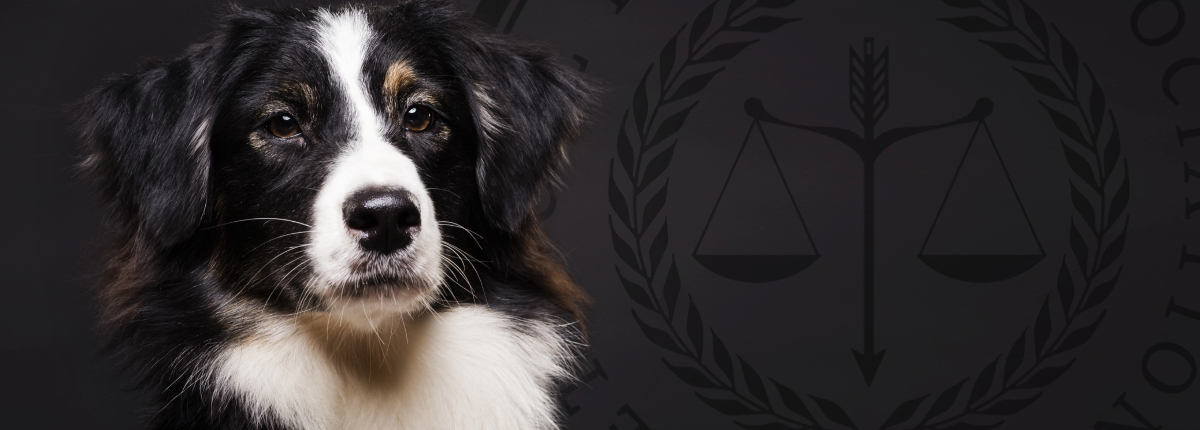
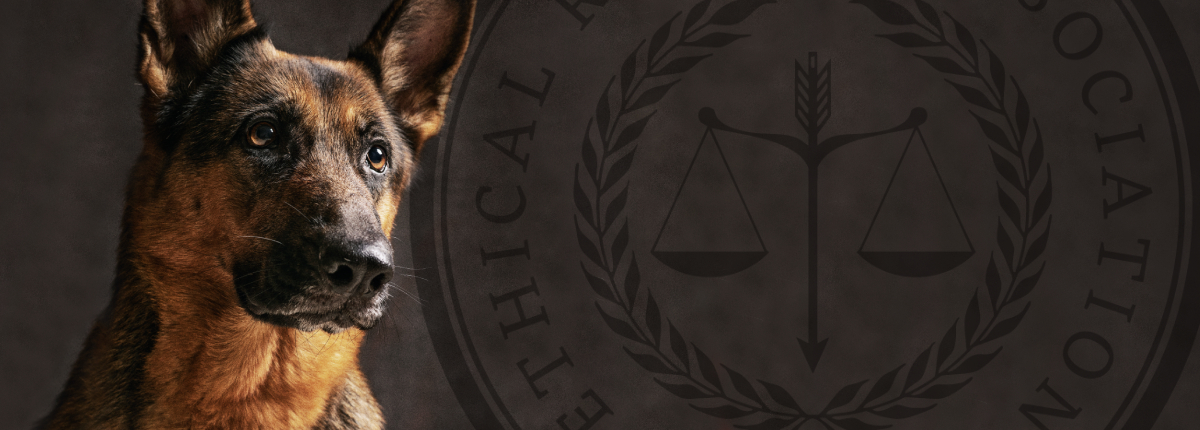
add faq page content

diff --git a/app/assets/stylesheets/about_pages/faq.scss b/app/assets/stylesheets/about_pages/faq.scss
@@ -1,7 +1,7 @@
 
 @import "../application_config.scss";
 
-.code-of-ethics-container {
+.faq-container {
 
   /* BANNER */
 
@@ -38,7 +38,7 @@
   }
 
   .banner-img {
-    background-image: url("about_pages/code_of_ethics/code-of-ethics-banner.jpg");
+    background-image: url("about_pages/faq/faq-banner.jpg");
     height: 430px;
     width: 100%;
     position: absolute;
@@ -47,13 +47,13 @@
     background-repeat: no-repeat;
 
     @media only screen and (max-width: $TABLET-LG) {
-      background-image: url("about_pages/code_of_ethics/code-of-ethics-banner-tablet-lg.jpg");
+      background-image: url("about_pages/faq/faq-banner-tablet-lg.jpg");
     }
     @media only screen and (max-width: $TABLET) {
-      background-image: url("about_pages/code_of_ethics/code-of-ethics-banner-tablet-mobile.jpg");
+      background-image: url("about_pages/faq/faq-banner-tablet-mobile.jpg");
     }
     @media only screen and (max-width: $MOBILE) {
-      background-image: url("about_pages/code_of_ethics/code-of-ethics-banner-tablet-mobile.jpg");
+      background-image: url("about_pages/faq/faq-banner-tablet-mobile.jpg");
     }
   }
 
@@ -82,27 +82,30 @@
     font-size: 60px;
     line-height: 50px;
     padding: 10px 0 25px;
-    width: 750px;
-    max-width: 750px;
+    width: 900px;
+    max-width: 900px;
     text-align: right;
-    text-shadow: $DARKER-GRAY 0 0 12px;
+    text-shadow: $DARK-GRAY 0 0 12px;
 
     @media only screen and (max-width: $FULLSCREEN) {
-      width: 70vw;
+      width: 100%;
     }
     @media only screen and (max-width: $TABLET-LG) {
       font-size: 50px;
-      width: 70vw;
+      line-height: 55px;
+      width: 100%;
     }
     @media only screen and (max-width: $TABLET) {
-      font-size: 43px;
+      font-size: 50px;
+      line-height: 55px;
       width: 100%;
       text-align: center;
     }
     @media only screen and (max-width: $MOBILE) {
       padding: 10px 0 22px;
-      font-size: 34px;
+      font-size: 40px;
       width: 100%;
+      line-height: 40px;
       text-align: center;
     }
   }
@@ -113,6 +116,7 @@
     height: 40px;
     text-align: right;
     text-shadow: $DARKER-GRAY 0 0 12px;
+    display: none;
 
     @media only screen and (max-width: $TABLET-LG) {
       height: inherit;
@@ -195,20 +199,9 @@
   .accordion section header {
     cursor: pointer;
     padding: 22px;
-    border-top: 1px solid lightgray;
-    border-right: 1px solid lightgray;
-    border-left: 1px solid lightgray;
     color: $BRAND-BLUE;
     transition: background 1s ease-in-out;
     line-height: 30px;
-  }
-
-  .top-tab {
-    border-top-left-radius: 15px;
-    border-top-right-radius: 15px;
-  }
-
-  .bottom-tab {
     border-bottom: 1px solid lightgray;
   }
 
@@ -235,21 +228,13 @@
     display: none;
     width: 100%;
     box-sizing: border-box;
-    padding: 0 60px 40px;
+    padding: 0 25px 12px;
     padding-top: 0px;
     padding-right: 60px;
-    padding-bottom: 40px;
-    padding-left: 60px;
-    border-right: 1px solid lightgray;
-    border-bottom: 1px solid lightgray;
-    border-left: 1px solid lightgray;
-  }
-
-  .accordion section .accord-content {
-    background-image: linear-gradient(to top, $BRAND-LIGHT-BLUE 10%, transparent 100%);
   }
 
   .accordion section .accord-content p {
+    padding: 25px 0 0px;
     margin-bottom: 0;
   }
 
@@ -263,14 +248,5 @@
     @media only screen and (max-width: $MOBILE) {
       padding: 1em 3em 3em 3em;
     }
-  }
-}
-
-.ethics-category {
-  p {
-    padding: 0 0 20px;
-  }
-  li {
-    padding: 0 0 10px;
   }
 }

diff --git a/app/assets/stylesheets/application.scss b/app/assets/stylesheets/application.scss
@@ -8,6 +8,7 @@
 @import "../stylesheets/main/main.scss";
 @import "../stylesheets/about_pages/code_of_ethics.scss";
 @import "../stylesheets/about_pages/what_is_era.scss";
+@import "../stylesheets/about_pages/faq.scss";
 
 /*
  * This is a manifest file that'll be compiled into application.css, which will include all the files

diff --git a/app/assets/stylesheets/about_pages/what_is_era.scss b/app/assets/stylesheets/about_pages/what_is_era.scss
@@ -84,7 +84,7 @@
     width: 750px;
     max-width: 750px;
     text-align: right;
-    text-shadow: $DARK-GRAY 0 0 7px;
+    text-shadow: $DARKER-GRAY 0 0 12px;
 
     @media only screen and (max-width: $FULLSCREEN) {
       width: 70vw;

diff --git a/app/assets/stylesheets/_application_config.scss b/app/assets/stylesheets/_application_config.scss
@@ -11,6 +11,8 @@ $MOBILE: 414px;
 $BRAND-BLUE: #2a3457;
 $BRAND-DARK-BLUE: #1a2036;
 $DARK-GRAY: #2e2e2e;
+$DARKER-GRAY: #1e1e1e;
+$BRAND-LIGHT-BLUE: #F6F6F8;
 $LIGHT-BLUE: #8da1e0;
 $WHITE: #FFF;
 $OFFWHITE: #f5f5f5;

diff --git a/app/assets/stylesheets/main/main.scss b/app/assets/stylesheets/main/main.scss
@@ -81,7 +81,7 @@
 }
 
 .text-shadow {
-  text-shadow: $DARK-GRAY 0 0 7px;
+  text-shadow: $DARKER-GRAY 0 0 12px;
 }
 
 /* PAYMENT PROMPT MODAL */
